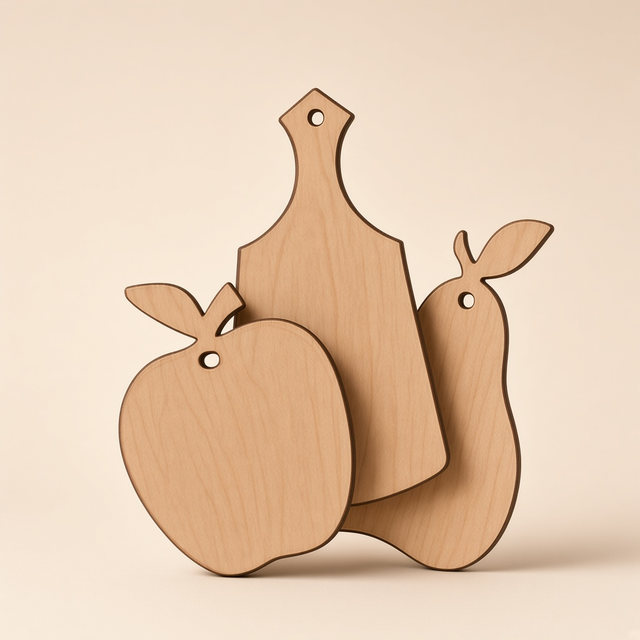
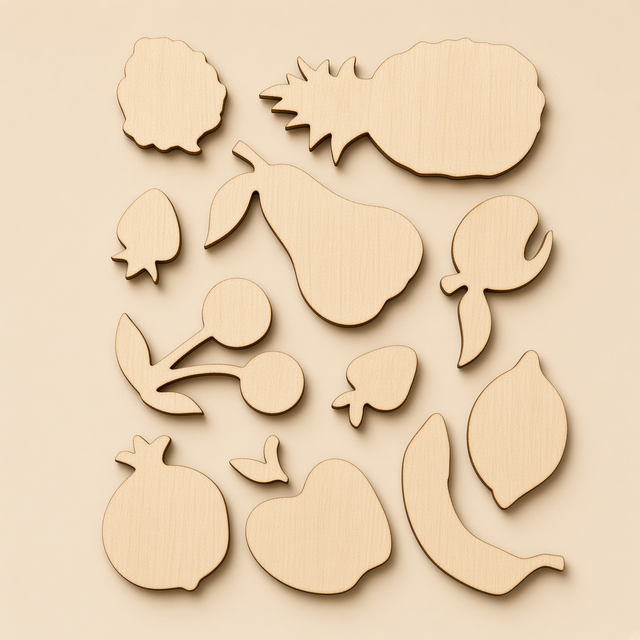
Update stencil blanks photo to fruit shapes from user reference.

diff --git a/заготовки.html b/заготовки.html
@@ -283,7 +283,7 @@
         </div>
         <div class="card__body">
           <h2 class="card__title">Трафареты для творчества</h2>
-          <p class="card__desc">Яблоки, груши, досочки и другие формы под роспись.</p>
+          <p class="card__desc">Фруктовые формы: яблоко, груша, банан, вишня и другие.</p>
           <ul class="specs">
             <li><span>Материал</span><strong>Фанера</strong></li>
             <li><span>Размер</span><strong>по макету</strong></li>
